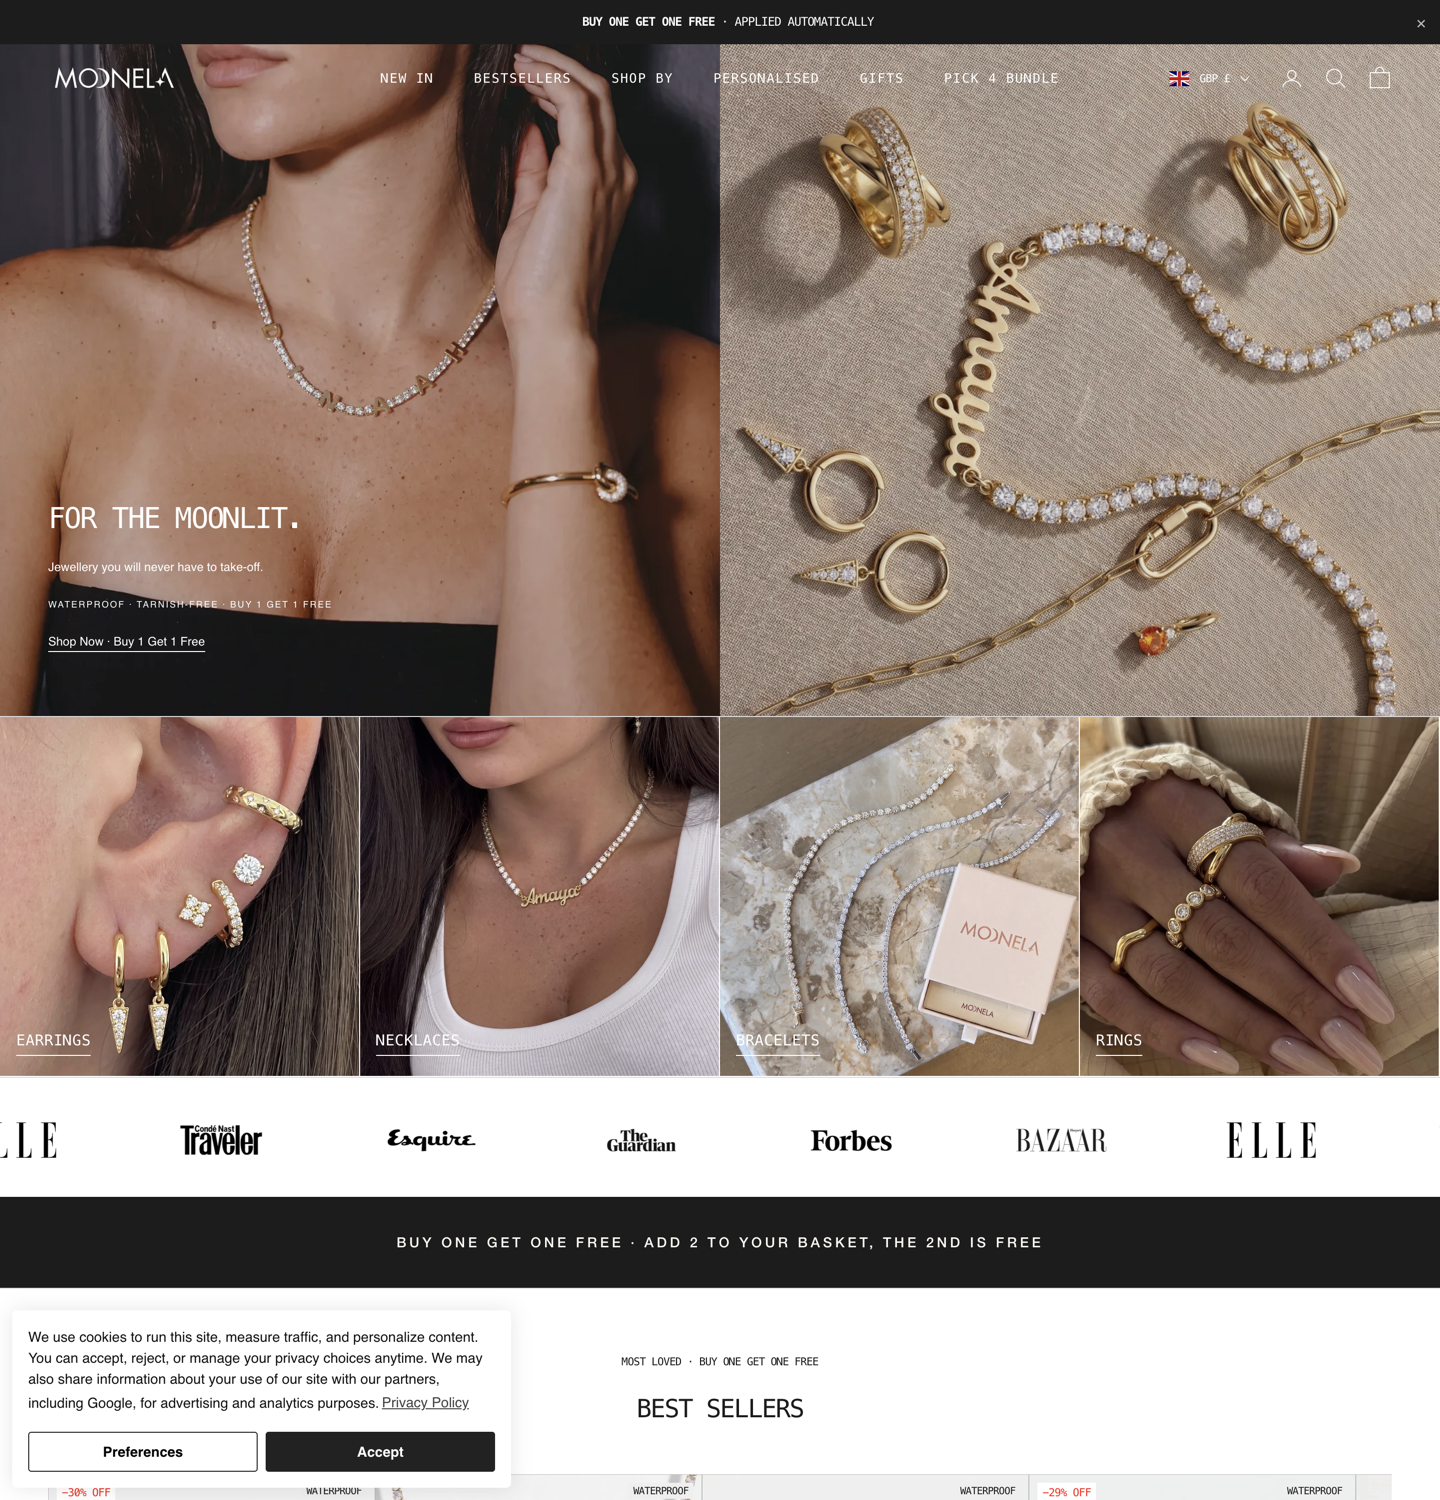
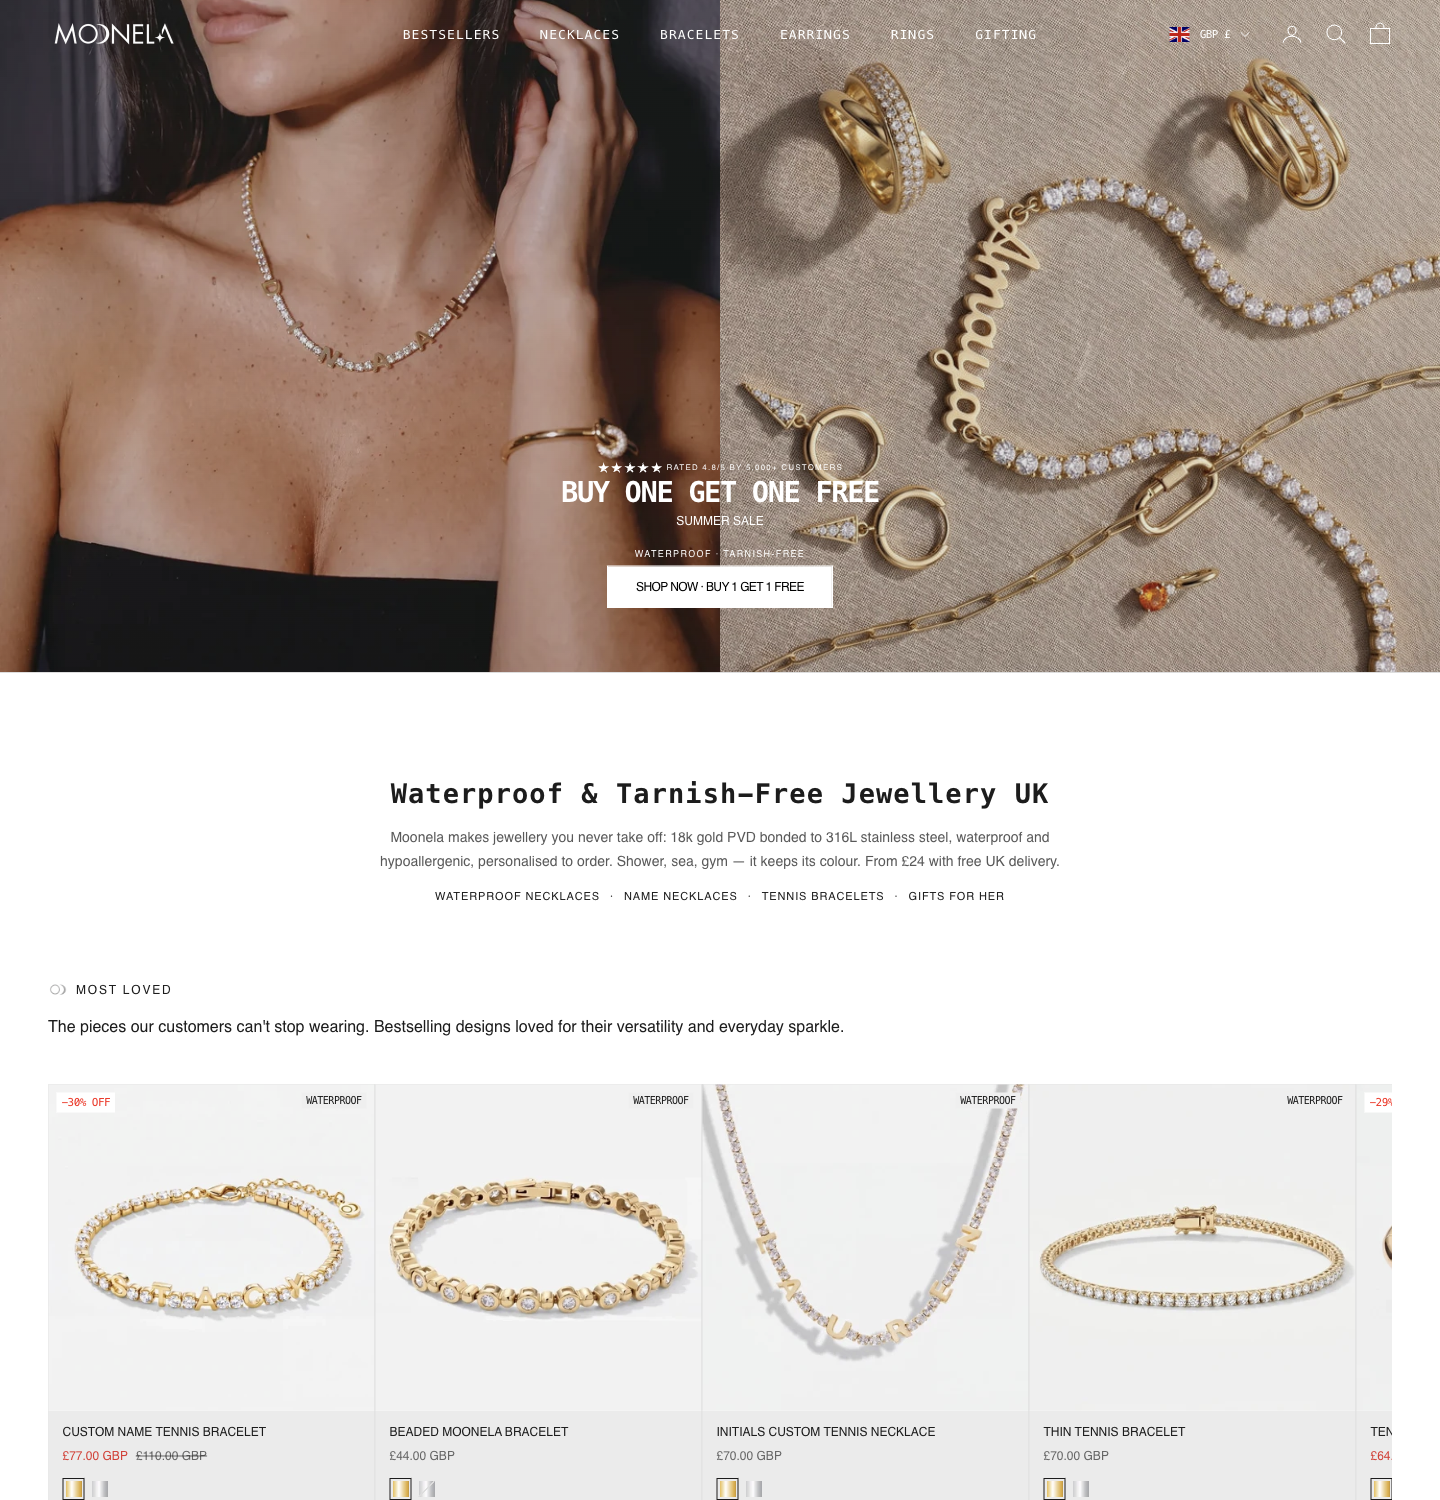
Moonela case study: storefront first, numbers below
Moves the live storefront screenshot into the hero, directly under the
intro paragraph and above the metrics ledger, so the brand is seen before
it is quantified. Adds a new wide capture of the current homepage plus a
caption linking to moonela.co.uk.

Also refreshes the two storefront thumbnails in the right-hand panel,
which still showed the previous version of the site.

Claude-Session: https://claude.ai/code/session_01X6DPWK8FgfgqWLEQGWtjdU

diff --git a/index.html b/index.html
@@ -459,6 +459,17 @@
       }
       .mnlx .lede b{color:var(--ink);font-weight:600;}
       .mnlx .ledger{margin-top:34px;border-top:1px solid var(--line);}
+    .mnlx .hero-store{
+      margin-top:26px;border-radius:14px;overflow:hidden;
+      border:1px solid var(--line);
+      box-shadow:0 24px 48px -26px rgba(0,0,0,.45);
+      display:block;line-height:0;background:#EFE9DF;
+    }
+    .mnlx .hero-store img{display:block;width:100%;height:auto;}
+    .mnlx .hero-store-cap{
+      margin-top:10px;font-size:12.5px;letter-spacing:.02em;
+      color:#8a8175;text-transform:uppercase;
+    }
       .mnlx .ledger .row{
         display:flex;align-items:baseline;gap:18px;
         padding:15px 2px;border-bottom:1px solid var(--line);
@@ -704,6 +715,11 @@
               product photography, paid social, organic content, influencer partnerships and the full
               P&amp;L across the <b>UK and EU</b>.
             </p>
+
+            <a class="hero-store" href="https://moonela.co.uk/" target="_blank" rel="noopener">
+              <img src="assets/moonela_home_2026.png" alt="Moonela storefront homepage" loading="lazy">
+            </a>
+            <p class="hero-store-cap">moonela.co.uk &middot; the live storefront</p>
 
             <div class="ledger">
               <div class="row"><span class="num">£173,203</span><span class="lab">Total sales · since launch (Mar 2026)</span></div>
